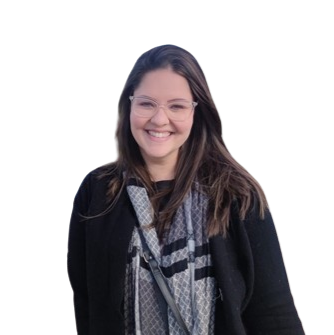
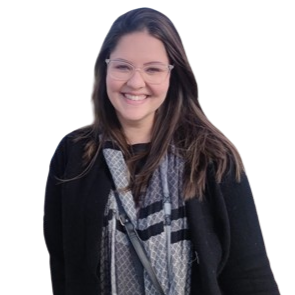
About us

diff --git a/src/components/BusinessCard/style.jsx b/src/components/BusinessCard/style.jsx
@@ -55,7 +55,8 @@ export const BackFace = styled(Face)`
 
 export const CardDisplayImage = styled.img`
   display: flex;
-  height: 100%;
+  height: 90%;
+  margin-bottom: 0;
 `;
 
 export const CardName = styled.div`
